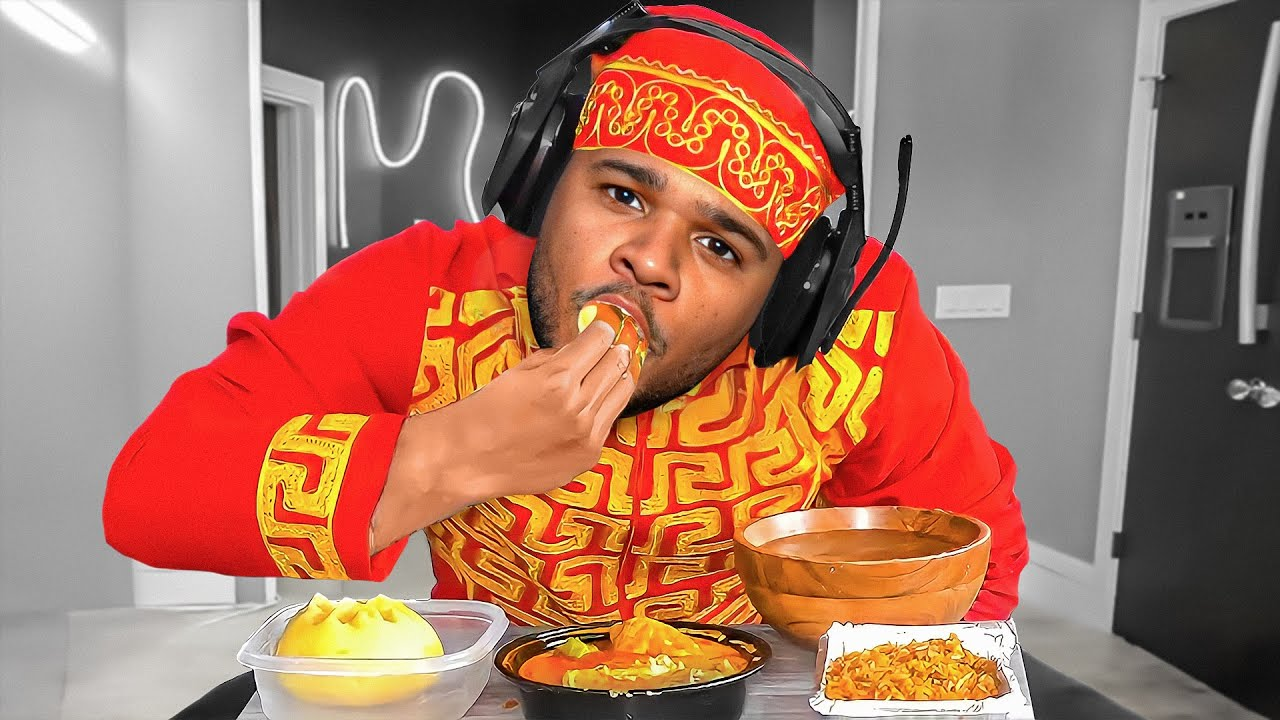
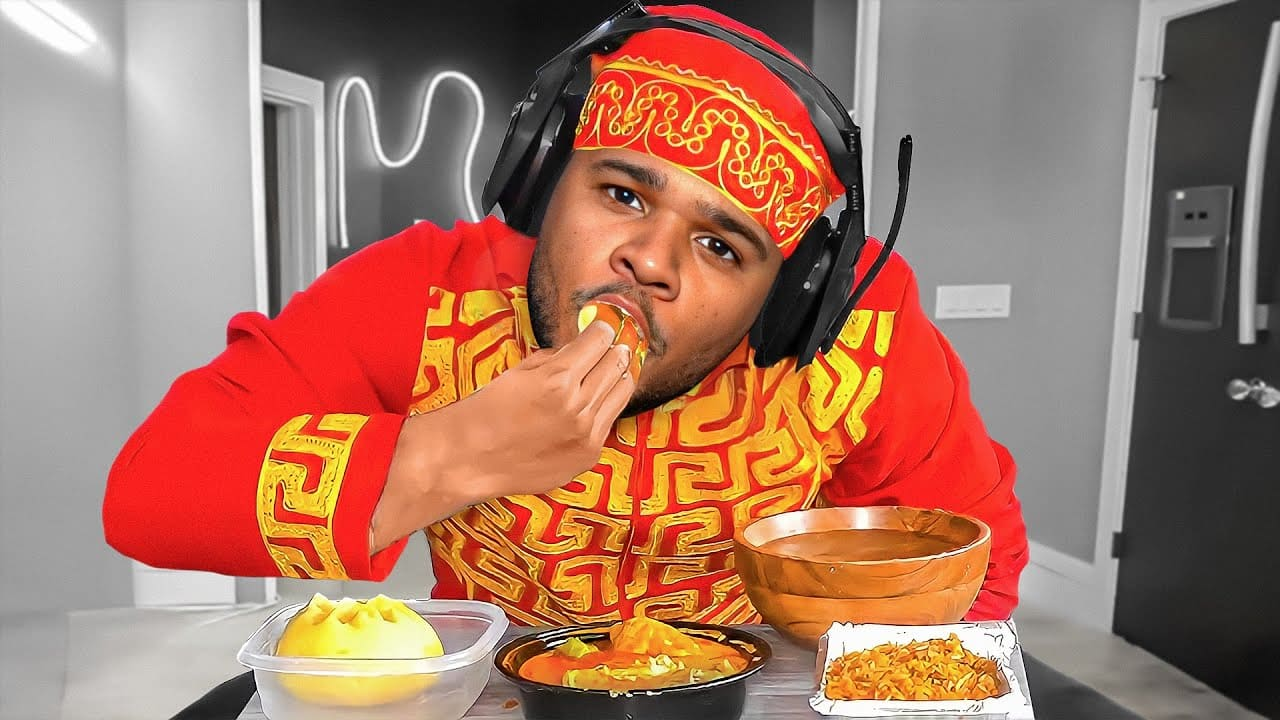
compress a picture add new layout

Changed region(s): [[0.375, 0.7028, 0.4062, 0.7639], [0.375, 0.8861, 0.4062, 0.9167]]

diff --git a/src/components/activitie/Activity.jsx b/src/components/activitie/Activity.jsx
@@ -1,16 +1,17 @@
 export default function Activity({activity, key}) {
   return (
-    <div>
-      <div key={key} className="relative w-full h-[325px] rounded-[10px]">
-        <img
-          src={activity.src}
-          className="w-full h-full object-cover rounded-md"
-          alt={activity.name}
-        />
-        <div className="absolute overflow-auto inset-0 bg-black opacity-0 hover:opacity-80 transition-opacity duration-400 flex items-center justify-center">
-          <div className="flex flex-col items-center h-full w-auto"></div>
-        </div>
-      </div>
+    <div
+      key={key}
+      className={`relative w-full h-[325px] rounded-[10px] hover:scale-[103%] duration-200 ${activity?.className}`}
+    >
+      <img
+        src={activity.src}
+        className="w-full h-full object-cover rounded-md"
+        alt={activity.name}
+      />
+      {/* <div className="absolute overflow-auto inset-0 bg-black opacity-0 hover:opacity-80 transition-opacity duration-400 flex items-center justify-center">
+        <div className="flex flex-col items-center h-full w-auto"></div>
+      </div> */}
     </div>
   );
 }

diff --git a/src/components/activitie/ActivityLayout.jsx b/src/components/activitie/ActivityLayout.jsx
@@ -8,6 +8,7 @@ const activiites = [
   },
   {
     src: "/Aum-48.jpg",
+    className: "xl:col-span-2",
   },
   {
     src: "/Aum-101.jpg",
@@ -19,10 +20,11 @@ const activiites = [
     src: "/Book-80.jpg",
   },
   {
-    src: "/Book-097.jpg",
+    src: "/Book-20.jpg",
+    className: "xl:col-span-2",
   },
   {
-    src: "/Book-20.jpg",
+    src: "/Book-097.jpg",
   },
 ];
 
